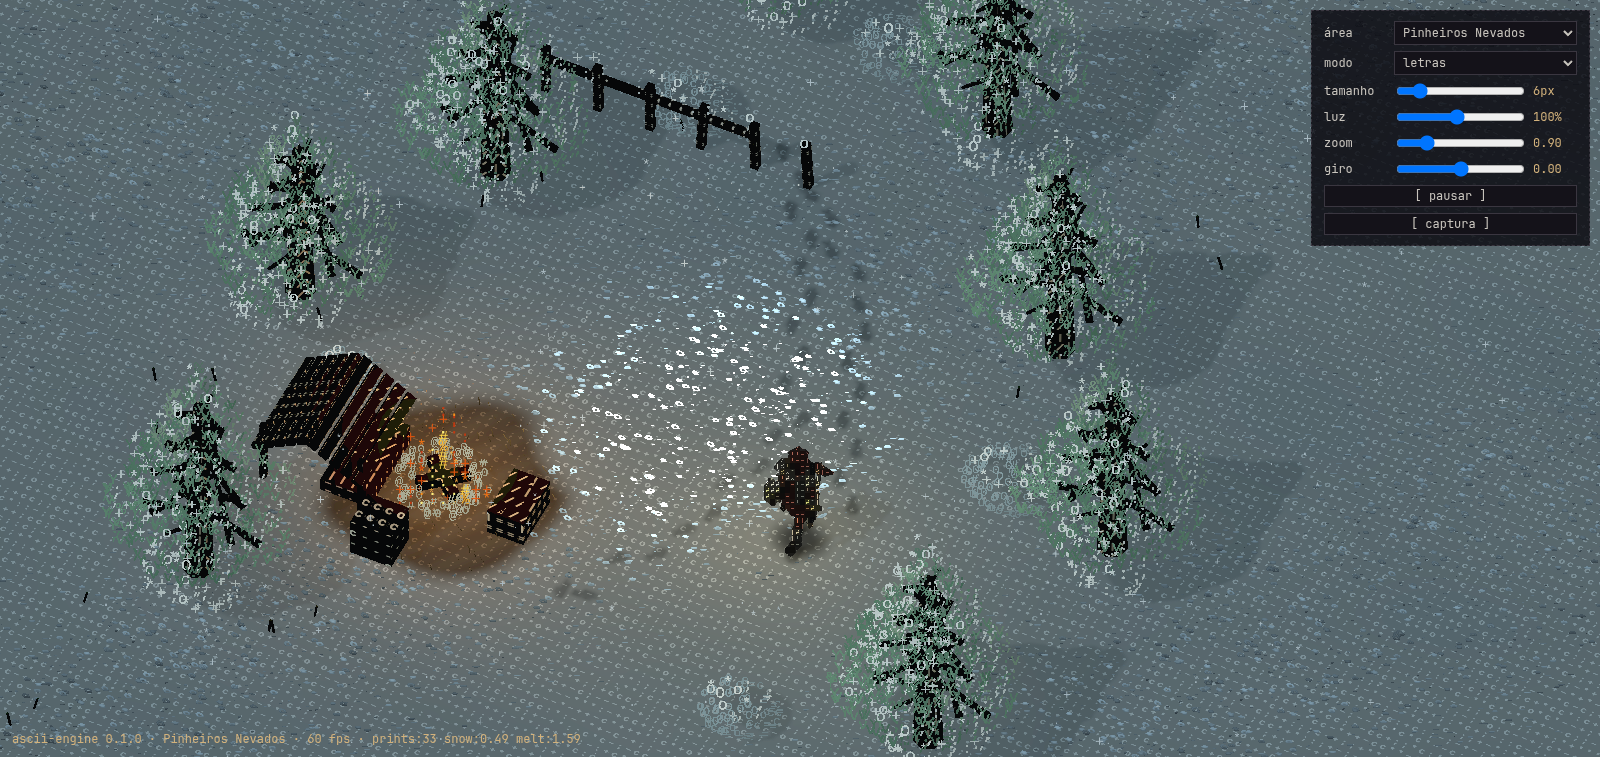
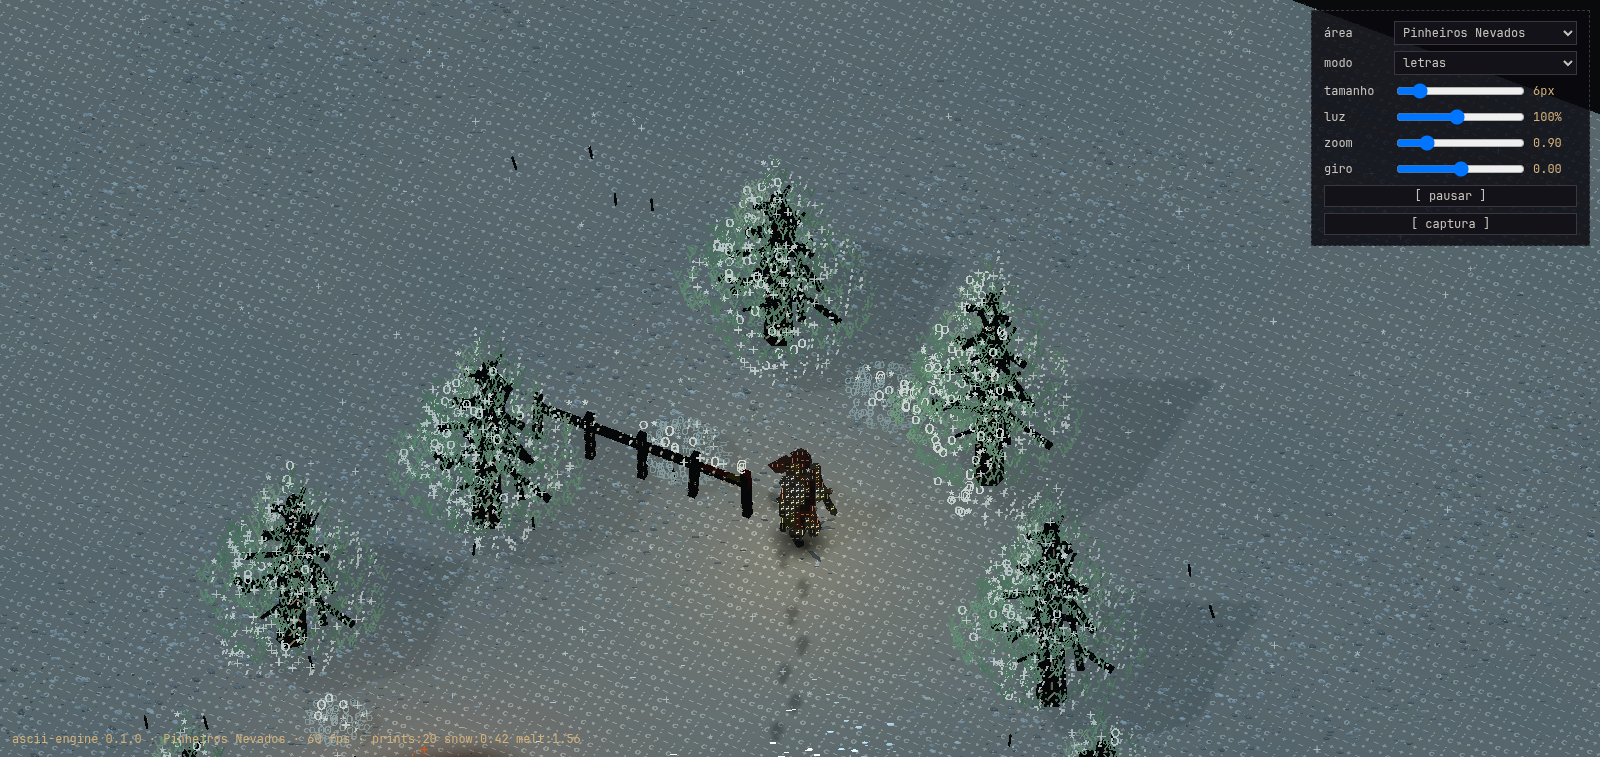
Mina Antiga e Catedral Submersa: interiores com descoberta pela lanterna e água em corredores

Changed region(s): [[0.0, 0.0, 1.0, 1.0]]

diff --git a/apps/editor/src/areas/interiors.ts b/apps/editor/src/areas/interiors.ts
@@ -1,0 +1,226 @@
+import * as THREE from 'three'
+import { type AsciiEngine, type GroundCover, type LightObstacle, pomorogInterior } from '@ascii-engine/core'
+import { createKit, rock } from '../scene/pomorogKit'
+import { createFixedMapActors } from './common'
+import type { Area, AreaOptions } from './types'
+
+/**
+ * Interiors (Pomorog `environment.ts`, mine and cathedral branches): lit
+ * floors with a canvas texture, discovery by lantern sight (obstacles taken
+ * from the built scene), the brighter lantern (19). Geometry is ported as is;
+ * each piece declares its technique on the node.
+ */
+
+/** Lit floors for interiors, so the letters belong to the ground (Pomorog `createLitFloor`). */
+function litFloor(locationId: 'old_mine' | 'sunken_cathedral') {
+  const palette = locationId === 'old_mine' ? [0x2b241d, 0x3b3128, 0x4a3d2e] : [0x2a302e, 0x343b38, 0x404842]
+  const size = 256, canvas = document.createElement('canvas'); canvas.width = canvas.height = size
+  const ctx = canvas.getContext('2d')!
+  let seed = 4127
+  const random = () => { seed = (Math.imul(seed, 1664525) + 1013904223) >>> 0; return seed / 4294967296 }
+  ctx.fillStyle = `#${palette[0].toString(16).padStart(6, '0')}`; ctx.fillRect(0, 0, size, size)
+  for (let i = 0; i < 900; i++) {
+    ctx.fillStyle = `#${palette[1 + Math.floor(random() * 2)].toString(16).padStart(6, '0')}`
+    const w = 2 + random() * 10; ctx.fillRect(random() * size, random() * size, w, w * (.5 + random()))
+  }
+  if (locationId === 'sunken_cathedral') {
+    // Flagstone joints.
+    ctx.strokeStyle = '#1a1e1d'; ctx.lineWidth = 2
+    for (let i = 0; i <= size; i += 32) { ctx.beginPath(); ctx.moveTo(i, 0); ctx.lineTo(i, size); ctx.moveTo(0, i); ctx.lineTo(size, i); ctx.stroke() }
+  }
+  const texture = new THREE.CanvasTexture(canvas)
+  texture.colorSpace = THREE.SRGBColorSpace; texture.wrapS = texture.wrapT = THREE.RepeatWrapping; texture.repeat.set(6, 6)
+  const floor = new THREE.Mesh(new THREE.PlaneGeometry(42, 40), new THREE.MeshStandardMaterial({ map: texture, roughness: 1 }))
+  floor.rotation.x = -Math.PI / 2; floor.position.y = -.07; floor.receiveShadow = true
+  floor.userData.glyph = 'surface'; floor.userData.glyphStyle = { surface: 'earth' }
+  return floor
+}
+
+/** Only geometry crossing lantern height blocks sight; faceted rocks never do (Pomorog `lightObstacles`). */
+function lightObstacles(root: THREE.Object3D) {
+  root.updateMatrixWorld(true)
+  const list: LightObstacle[] = [], bounds = new THREE.Box3()
+  root.traverse((object) => {
+    if (!(object instanceof THREE.Mesh) || object.geometry === rock) return
+    bounds.setFromObject(object)
+    if (bounds.min.y < 1.2 && bounds.max.y > 1.2) list.push({ minX: bounds.min.x, maxX: bounds.max.x, minZ: bounds.min.z, maxZ: bounds.max.z })
+  })
+  return list
+}
+
+const pickOf = (list: number[], random: () => number) => list[Math.floor(random() * list.length)]
+/** Gravel, dust and glints of ore along the rail bed; walls stay rock. */
+const mineCover: GroundCover = {
+  count: 26000, y: () => -.03,
+  density: (x) => Math.abs(x - .2) < 3.3 ? .75 : 0,
+  pick(random) {
+    const ore = random() < .05, shade = .45 + random() * .55
+    return ore
+      ? { glyph: pickOf([6, 7], random), height: .12, color: random() < .5 ? [.85 * shade, .52 * shade, .22 * shade] : [.32 * shade, .62 * shade, .5 * shade] }
+      : { glyph: pickOf([8, 9, 8, 7, 9, 5], random), height: .05 + random() * .07, color: [.4 * shade, .36 * shade, .3 * shade] }
+  },
+}
+/** Moss in the cracks and stone dust on the nave floor. */
+const cathedralCover: GroundCover = {
+  count: 22000, y: () => -.03,
+  density: (x) => Math.abs(x) < 3.9 ? .6 : 0,
+  pick(random) {
+    const moss = random() < .55, shade = .45 + random() * .55
+    return moss
+      ? { glyph: pickOf([9, 3, 9, 5, 8], random), height: .05 + random() * .08, color: [.24 * shade, .42 * shade, .3 * shade] }
+      : { glyph: pickOf([8, 9, 8], random), height: .04 + random() * .04, color: [.42 * shade, .44 * shade, .42 * shade] }
+  },
+}
+
+function createInterior(engine: AsciiEngine, options: AreaOptions, locationId: 'old_mine' | 'sunken_cathedral'): Area {
+  engine.setStyle(pomorogInterior)
+  const root = new THREE.Group(); root.name = locationId
+  const kit = createKit()
+  let seed = 8203
+  const random = () => { seed = (seed * 1664525 + 1013904223) >>> 0; return seed / 4294967296 }
+  const add = (geometry: THREE.BufferGeometry, color: number, x: number, y: number, z: number, sx = 1, sy = sx, sz = sx, parent: THREE.Object3D = root, surface?: 'stone' | 'foliage' | 'wood') => kit.add(geometry, color, x, y, z, sx, sy, sz, parent, surface)
+  const box = (color: number, x: number, y: number, z: number, w: number, h: number, d: number, parent: THREE.Object3D = root, surface?: 'stone' | 'foliage' | 'wood') => kit.box(color, x, y, z, w, h, d, parent, surface)
+  const lanterns: THREE.Group[] = [], ornaments: THREE.Object3D[] = []
+  root.add(litFloor(locationId))
+  const water = locationId === 'sunken_cathedral' ? engine.createWater({ kind: 'pond', x: 0, z: 0, angle: 0, size: 1 }, {
+    // Flooded side aisles (Pomorog `channelWater.ts`, cathedral).
+    edgeGLSL: 'float shore=1.48-abs(abs(p.x)-5.2); float inside=(p.z<-10.||p.z>12.)?-1.:shore; float wave=sin(p.z*7.-time*.9+sin(p.x*2.)*.4);',
+    crestGLSL: '(1.-smoothstep(0.,.18,inside))*.7+max(0.,wave-.85)',
+    flow: [0, .06], size: 30,
+    distance: (x, z) => Math.max(0, -(1.48 - Math.abs(Math.abs(x) - 5.2))) + Math.max(0, -10 - z, z - 12),
+  }) : undefined
+  if (water) { water.mesh.position.set(0, .018, 0); root.add(water.mesh) }
+  if (locationId === 'old_mine') {
+
+    // Twin rails, timber supports, a loaded cart and exposed copper veins.
+    for (let z = -10; z < 10; z += .62) box(0x82704e, .7, -.005, z, 1.85, .13, .16)
+    for (const x of [.05, 1.35]) box(0xa99876, x, .08, 0, .085, .12, 22, root, 'stone')
+    for (const z of [-5, -1, 4, 8]) {
+      for (const x of [-3.1, 3.5]) {
+        box(0x94734a, x, 1.48, z, .26, 2.96, .30)
+        for (const y of [.28, 2.62]) box(0x5d655f, x, y, z, .30, .09, .34, root, 'stone')
+        const brace = box(0xab8755, x + (x < 0 ? .38 : -.38), 2.53, z, .15, 1.04, .17)
+        brace.rotation.z = x < 0 ? -.65 : .65
+      }
+      box(0x94734a, .2, 3.02, z, 6.95, .24, .32)
+    }
+    for (let i = 0; i < 65; i++) {
+      const x = (i % 2 ? -1 : 1) * (3.85 + random() * 1.4), z = -10 + random() * 22
+      const stone = add(rock, [0x666b63, 0x879080, 0x77745a][i % 3], x, random() * .85, z, .4 + random() * .65, .6 + random() * 1.1, .4 + random() * .8, root, 'stone')
+      stone.rotation.set(random(), random(), random())
+      if (i % 3 === 0) {
+        const crystal = add(new THREE.OctahedronGeometry(.5), i % 2 ? 0xbf8746 : 0x639a81, x * .89, .3 + random() * .6, z, .3, .55, .35, root, 'stone')
+        crystal.rotation.z = (random() - .5) * .8
+      }
+    }
+    for (const [x,z] of [[-2.88,1],[3.28,-4],[-2.88,6]]) {
+      const lamp = new THREE.Group(); lamp.position.set(x, 2.8, z); root.add(lamp); lanterns.push(lamp)
+      box(0x686757,0,-.24,0,.025,.48,.025,lamp)
+      const glass = box(0xd7ac65,0,-.60,0,.16,.25,.16,lamp,'stone')
+      ;(glass.material as THREE.MeshStandardMaterial).emissive.setHex(0x765025)
+      for (const y of [-.76,-.44]) box(0x5b6259,0,y,0,.24,.055,.24,lamp,'stone')
+      for (const side of [-1,1]) box(0x5b6259,side*.1,-.60,.09,.025,.29,.025,lamp,'stone')
+      const glow = new THREE.PointLight(0xe0ba7b, 3.8, 3.2, 1.7)
+      glow.position.y = -.58; lamp.add(glow)
+    }
+    // Loose ballast and damp seams keep the rail bed from reading as empty void.
+    for (let i = 0; i < 110; i++) {
+      const x = (random() - .5) * 5.2, z = -9 + random() * 19
+      if (Math.hypot(x + 3,z - 2.6) < 1) continue
+      add(rock, i % 4 ? 0x727164 : 0x506d45, x, -.025, z, .05 + random() * .09, .04, .08 + random() * .1, root, i % 4 ? 'stone' : 'foliage')
+    }
+    const cart = new THREE.Group(); cart.position.set(2.9, 0, -.8); root.add(cart)
+    box(0x8a765d, 0, .65, 0, 1.1, .7, 1.5, cart)
+    box(0x303b3c, 0, 1.02, 0, .85, .05, 1.25, cart)
+    for (const x of [-.57, .57]) for (const z of [-.47, .47]) {
+      const wheel = add(new THREE.CylinderGeometry(.24, .24, .12, 10), 0x84918c, x, .26, z, 1, 1, 1, cart)
+      wheel.rotation.z = Math.PI / 2
+    }
+    for (let i = 0; i < 7; i++) add(rock, 0x999084, (random() - .5) * .8, 1.04, (random() - .5), .26, .3, .28, cart)
+  } else {
+    // Flooded side aisles around a dry nave; paired pillars frame the route.
+    for (let z = -10; z <= 11; z += .92) for (let x = -3; x <= 3; x++) {
+      const tile = box((x + Math.round(z)) % 2 ? 0x455957 : 0x65716a, x * .87, -.035, z, .82, .09, .87, root, 'stone')
+      tile.rotation.y = (random() - .5) * .025
+    }
+    for (const side of [-1, 1]) {
+      box(0x203a48, side * 5.2, -.06, 0, 3.1, .08, 24)
+      for (const z of [-5, .5, 6]) {
+        const x = side * 3.25
+        box(0x929e98, x, .15, z, .87, .3, .87, root, 'stone')
+        add(new THREE.CylinderGeometry(.24, .31, 2.65, 8), 0x9baaa4, x, 1.6, z, 1, 1, 1, root, 'stone')
+        for (let rib = 0; rib < 4; rib++) {
+          const a = rib * Math.PI / 2
+          add(new THREE.CylinderGeometry(.065,.075,2.5,5),0xb1b7a4,x+Math.cos(a)*.25,1.6,z+Math.sin(a)*.25,1,1,1,root,'stone')
+        }
+        box(0xc1bda5, x, 3, z, .78, .23, .78, root, 'stone')
+        for (let i = 0; i < 5; i++) add(rock,0x4e7349,x+(random()-.5)*.8,.08,z+(random()-.5)*.8,.13,.075,.15,root,'foliage')
+      }
+      // Low pews leave the combat lane and bonfire visible.
+      for (const z of [-2.3, 1.3, 4.8]) {
+        box(0x615749, side * 2.6, .43, z, 1.25, .18, .45)
+        box(0x716351, side * 2.6, .72, z - .18, 1.25, .52, .13)
+      }
+      for (let i = 0; i < 35; i++) {
+        const ripple = box(0x5b7f8a, side * (4.1 + random() * 2), .01, -10 + random() * 22, .3 + random() * .6, .015, .03)
+        ornaments.push(ripple)
+      }
+    }
+    for (const z of [-5,.5]) for (let i = 0; i <= 16; i++) {
+      if (z === .5 && i > 6 && i < 10) continue
+      const a = i / 16 * Math.PI
+      const rib = box(i % 3 ? 0x9ca9a0 : 0xb4b7a2,Math.cos(a)*3.25,2.92+Math.sin(a)*1.7,z,.52,.30,.37,root,'stone')
+      rib.rotation.z = Math.atan2(Math.cos(a)*1.7,-Math.sin(a)*3.25)
+    }
+    // Broken chancel window and central altar.
+    box(0x8b8a86, 0, .6, -5.2, 2.4, 1.15, 1.05)
+    box(0xc1b79c, 0, 1.22, -5.2, 2.7, .14, 1.2)
+    for (let i = 0; i <= 14; i++) {
+      const a = i / 14 * Math.PI
+      const arch = box(0x8d96a0, Math.cos(a) * 3.25, 2.5 + Math.sin(a) * 3.25, -6.5, .5, .74, .6)
+      arch.rotation.z = a - Math.PI / 2
+    }
+    for (const x of [-3.25, 3.25]) box(0x7e8d9c, x, 1.2, -6.5, .58, 2.4, .6)
+    for (const x of [-1.7, -.8, 0, .8, 1.7]) {
+      box(x === 0 ? 0xb2abb9 : 0x6a8d99, x, 3, -6.7, .17, 2.9 - Math.abs(x) * .4, .12)
+    }
+    for (let row = 0; row < 5; row++) for (let col = -2; col <= 2; col++) {
+      if ((row + col + 5) % 7 === 0) continue
+      const glass = box([0x729c91,0xa67852,0x8a707f][(row+col+5)%3],col*.53,2.02+row*.43,-6.72,.39,.32,.06,root,'stone')
+      ;(glass.material as THREE.MeshStandardMaterial).emissive.copy((glass.material as THREE.MeshStandardMaterial).color).multiplyScalar(.25)
+    }
+    for (let i = 0; i < 55; i++) {
+      const side = i % 2 ? -1 : 1, x = side * (2.8 + random() * .85), z = -8 + random() * 17
+      const fragment = add(rock,i%4 ? 0x8a9689 : 0x526f46,x,.055,z,.09+random()*.15,.06+random()*.1,.12+random()*.16,root,i%4 ? 'stone' : 'foliage')
+      fragment.rotation.y = random()*6
+    }
+    for (const x of [-1, 1]) {
+      box(0xd9cbb0, x, 1.54, -5.2, .1, .5, .1)
+      add(new THREE.OctahedronGeometry(.08), 0xe6c777, x, 1.87, -5.2, .6, 1.5, .6)
+    }
+  }
+  engine.add(root, options.screen ? { glyph: 'screen' } : {})
+  const carpet = engine.createCarpet(locationId === 'old_mine' ? mineCover : cathedralCover)
+  if (!options.screen) engine.add(carpet.mesh, { glyph: 'carpet' })
+  const actors = createFixedMapActors(engine, options, {
+    route: [[-.7, 3.8], [-.7, .6], [-.5, -3.1], [.6, -3.5], [1.7, .4], [1.6, 5.6], [-.7, 5.6]],
+    lantern: 19,
+  })
+  engine.setObstacles(lightObstacles(root))
+  return {
+    id: locationId, title: locationId === 'old_mine' ? 'Mina Antiga' : 'Catedral Submersa',
+    hero: actors.player.root.position,
+    state: 'lantern-discovery',
+    focus: actors.focus,
+    update(time, dt) {
+      actors.update(time, dt)
+      actors.burn(time)
+      lanterns.forEach((lamp, i) => { lamp.rotation.z = Math.sin(time * .8 + i * 2.1) * .035 })
+      ornaments.forEach((ripple, i) => { ripple.scale.x = .6 + Math.sin(time * 1.4 + i) * .25 })
+    },
+    dispose() {},
+  }
+}
+
+export const createMine = (engine: AsciiEngine, options: AreaOptions = {}) => createInterior(engine, options, 'old_mine')
+export const createCathedral = (engine: AsciiEngine, options: AreaOptions = {}) => createInterior(engine, options, 'sunken_cathedral')

diff --git a/packages/engine/src/techniques/water.ts b/packages/engine/src/techniques/water.ts
@@ -208,10 +208,16 @@ export interface WaterOptions {
   /** Height of the surface (Pomorog: .018). */
   level?: number
   /**
-   * Custom outline instead of `shape`: GLSL body returning `float inside` (> 0
-   * in the water) from `vec3 p`; used by canals and flooded aisles.
+   * Custom outline instead of `shape`: GLSL statements that set `float inside`
+   * (> 0 in the water) from `vec3 p`; used by canals and flooded aisles.
+   * Give `distance` too, so the engine picks the nearest mirror.
    */
   edgeGLSL?: string
+  /** GLSL expression for the foam/crest strength (default `edge * .75`). */
+  crestGLSL?: string
+  /** Flow on the plane (m/s); default: along a stream, slow drift on a pond. */
+  flow?: [number, number]
+  distance?: (x: number, z: number) => number
   /** Plane size (m); by default it covers the shape. */
   size?: number
 }
@@ -224,7 +230,7 @@ export function createWater(shape: WaterShape, options: WaterOptions = {}) {
     reflection: { value: null as THREE.Texture | null }, reflectionMatrix: { value: new THREE.Matrix4() },
     reflectionOn: { value: look.reflection.enabled ? 1 : 0 }, glyphAtlas: { value: surfaceAtlas() },
   }
-  const flow = shape.kind === 'stream'
+  const flow = options.flow ? `vec2(${f(options.flow[0])}, ${f(options.flow[1])})` : shape.kind === 'stream'
     ? `vec2(cos(centre.z), sin(centre.z)) * ${f(look.flow)}`
     : `vec2(${f(look.pondDrift[0])}, ${f(look.pondDrift[1])})`
   const material = new THREE.ShaderMaterial({
@@ -238,7 +244,7 @@ export function createWater(shape: WaterShape, options: WaterOptions = {}) {
         ${options.edgeGLSL ?? 'float inside=waterEdge(p.xz,centre);'}
         if(inside<0.)discard;
         float edge=1.-smoothstep(0.,${f(look.bank)},inside);
-        gl_FragColor=vec4(waterLetters(p,time,edge*.75,${flow},0.,vec3(0.)),${surfaceAlpha('glyph')});
+        gl_FragColor=vec4(waterLetters(p,time,${options.crestGLSL ?? 'edge*.75'},${flow},0.,vec3(0.)),${surfaceAlpha('glyph')});
       }`,
   })
   const size = options.size ?? (shape.kind === 'stream' ? 38 : shape.size * 2.8 + 2)
@@ -249,7 +255,7 @@ export function createWater(shape: WaterShape, options: WaterOptions = {}) {
   return {
     mesh, material, shape, look, reflection, uniforms,
     /** Distance (m) from a point to this water, 0 inside. */
-    distance(x: number, z: number) { return Math.max(0, -waterEdge(shape, x, z)) },
+    distance(x: number, z: number) { return options.distance ? options.distance(x, z) : Math.max(0, -waterEdge(shape, x, z)) },
     dispose() { reflection.dispose(); material.dispose(); mesh.geometry.dispose() },
   }
 }

diff --git a/packages/engine/src/engine.ts b/packages/engine/src/engine.ts
@@ -72,7 +72,17 @@ export function createAsciiEngine(canvas: HTMLCanvasElement, options: AsciiEngin
   ascii.material.uniforms.sceneTexture.value = target.texture
   ascii.material.uniforms.sceneDepth.value = target.depthTexture
 
-  let illumination = createIllumination({ interior: style.interior, obstacles: options.obstacles })
+  let obstacles = options.obstacles ?? []
+  let illumination = createIllumination({ interior: style.interior, obstacles })
+  function rebuildIllumination() {
+    const flash = illumination.uniforms.stormFlash.value
+    illumination.dispose()
+    illumination = createIllumination({ interior: style.interior, obstacles })
+    illumination.uniforms.stormFlash.value = flash
+    shareIllumination(ascii.material.uniforms)
+    for (const carpet of carpets) shareIllumination(carpet.uniforms)
+    for (const cloud of clouds) shareIllumination(cloud.uniforms)
+  }
   const bodies = bodyUniforms()
   const carpets: Carpet[] = [], clouds: GlyphCloud[] = [], waters: WaterSource[] = []
   const streaks: RainStreaks[] = []
@@ -320,14 +330,10 @@ export function createAsciiEngine(canvas: HTMLCanvasElement, options: AsciiEngin
       style = { ...style, ...next }
       if (next.types) Object.assign(types, next.types)
       applyStyle()
-      if (style.interior !== interior) {
-        illumination.dispose()
-        illumination = createIllumination({ interior: style.interior, obstacles: options.obstacles })
-        shareIllumination(ascii.material.uniforms)
-        for (const carpet of carpets) shareIllumination(carpet.uniforms)
-        for (const cloud of clouds) shareIllumination(cloud.uniforms)
-      }
+      if (style.interior !== interior) rebuildIllumination()
     },
+    /** Footprints that block the lantern's sight in interiors (discovery map). */
+    setObstacles(list: LightObstacle[]) { obstacles = list; rebuildIllumination() },
     /** Warm local lights that pick letters: the hero's lantern and the hearth. */
     setLights(next: { lantern?: THREE.Vector3 | null; hearth?: THREE.Vector3 | null; hearthPower?: number }) {
       if (next.lantern !== undefined) { lantern.on = !!next.lantern; lantern.position.copy(next.lantern ?? ABSENT) }

diff --git a/apps/editor/src/main.ts b/apps/editor/src/main.ts
@@ -3,6 +3,7 @@ import { createAsciiEngine, ENGINE_VERSION, pomorogSpan } from '@ascii-engine/co
 import { createForest } from './areas/forest'
 import { createMarsh, marshHooks } from './areas/marsh'
 import { createSnow } from './areas/snow'
+import { createCathedral, createMine } from './areas/interiors'
 import type { Area, AreaOptions } from './areas/types'
 import { buildReferenceScene } from './scene/reference'
 import { buildTerrainScene } from './scene/terrain'
@@ -24,6 +25,8 @@ export const AREAS: Record<string, AreaEntry> = {
   dark_forest: { title: 'Floresta Sombria', create: createForest },
   rain_marsh: { title: 'Pântano da Chuva', create: createMarsh, hooks: marshHooks },
   snow_pines: { title: 'Pinheiros Nevados', create: createSnow },
+  old_mine: { title: 'Mina Antiga', create: createMine },
+  sunken_cathedral: { title: 'Catedral Submersa', create: createCathedral },
   reference: { title: 'Cena de referência', create: (engine, options) => buildReferenceScene(engine, options.screen) },
   terrain: { title: 'Relevo (teste)', create: (engine) => buildTerrainScene(engine) },
 }

diff --git a/apps/editor/src/areas/common.ts b/apps/editor/src/areas/common.ts
@@ -48,14 +48,14 @@ export interface RouteOptions {
   wadingAt?: (x: number, z: number) => boolean
   /** Lantern strength: 7 outdoors, 19 indoors. */
   lantern?: number
-  /** Leave out the lean-to (interiors). */
+  /** The lean-to only travels with the procedural forest camp (Pomorog). */
   leanTo?: boolean
 }
 
 /** Camp, bonfire, traveller and lantern for a fixed map. */
 export function createFixedMapActors(engine: AsciiEngine, options: AreaOptions, route: RouteOptions) {
   const kit: Kit = createKit()
-  const campGroup = createCamp(kit, route.leanTo ?? true)
+  const campGroup = createCamp(kit, route.leanTo ?? false)
   campGroup.position.copy(CAMP)
   engine.add(campGroup, options.screen ? { glyph: 'screen' } : {})
   const fireLetters = engine.createParticles(1600)

diff --git a/docs/log.md b/docs/log.md
@@ -219,3 +219,29 @@ Comparar com o painel do pântano em `all-areas-ground-cover.png`.
   letras e prateleiras de neve (rampa `snow`) que engrossam com o tempo,
   pedregulhos, cerca quebrada, capim seco e tapete de crosta de neve.
 - Capturas: `neve.png` e `neve-perto-pegadas.png`.
+
+## 11/10/2026 — Fatias 4 e 5: Mina Antiga e Catedral Submersa
+
+**Estado:** as duas áreas montadas (`?area=old_mine`, `?area=sunken_cathedral`),
+equivalentes aos painéis de `all-areas-ground-cover.png`. 60 fps.
+
+- Núcleo: `engine.setObstacles` refaz o mapa de descoberta com os obstáculos
+  da cena já montada (a lanterna só revela o que enxerga). A água ganhou
+  contorno livre (`edgeGLSL`, `crestGLSL`, `flow`, `distance`), usado nos
+  corredores alagados da catedral (era `channelWater.ts`).
+- Editor: `src/areas/interiors.ts` com o código de montagem do Pomorog quase
+  literal: trilhos, escoras, rochas e cristais, lampiões pendurados com luz,
+  cascalho, carrinho; lajes, colunas com nervuras, bancos, arcos, altar,
+  vitral com brilho, fragmentos com musgo. Piso iluminado com textura
+  (`createLitFloor`), lanterna 19, estilo `pomorogInterior`, tapetes de
+  cascalho e de musgo.
+- Correção nas áreas fixas: o abrigo de tábuas só existe no acampamento da
+  floresta procedural (no Pomorog, `if (procedural)`); ele tinha entrado por
+  engano no pântano e na neve. Capturas refeitas.
+- Capturas: `mina.png`, `catedral.png` (e `neve.png`, `pantano.png` refeitas).
+
+### Critério de sucesso (§1.1)
+
+As 5 áreas do Pomorog podem ser montadas na engine e escolhidas no editor
+(painel → área). Falta a comparação lado a lado aprovada pelo dono e a
+conferência no Orca Browser com o painel visível.
